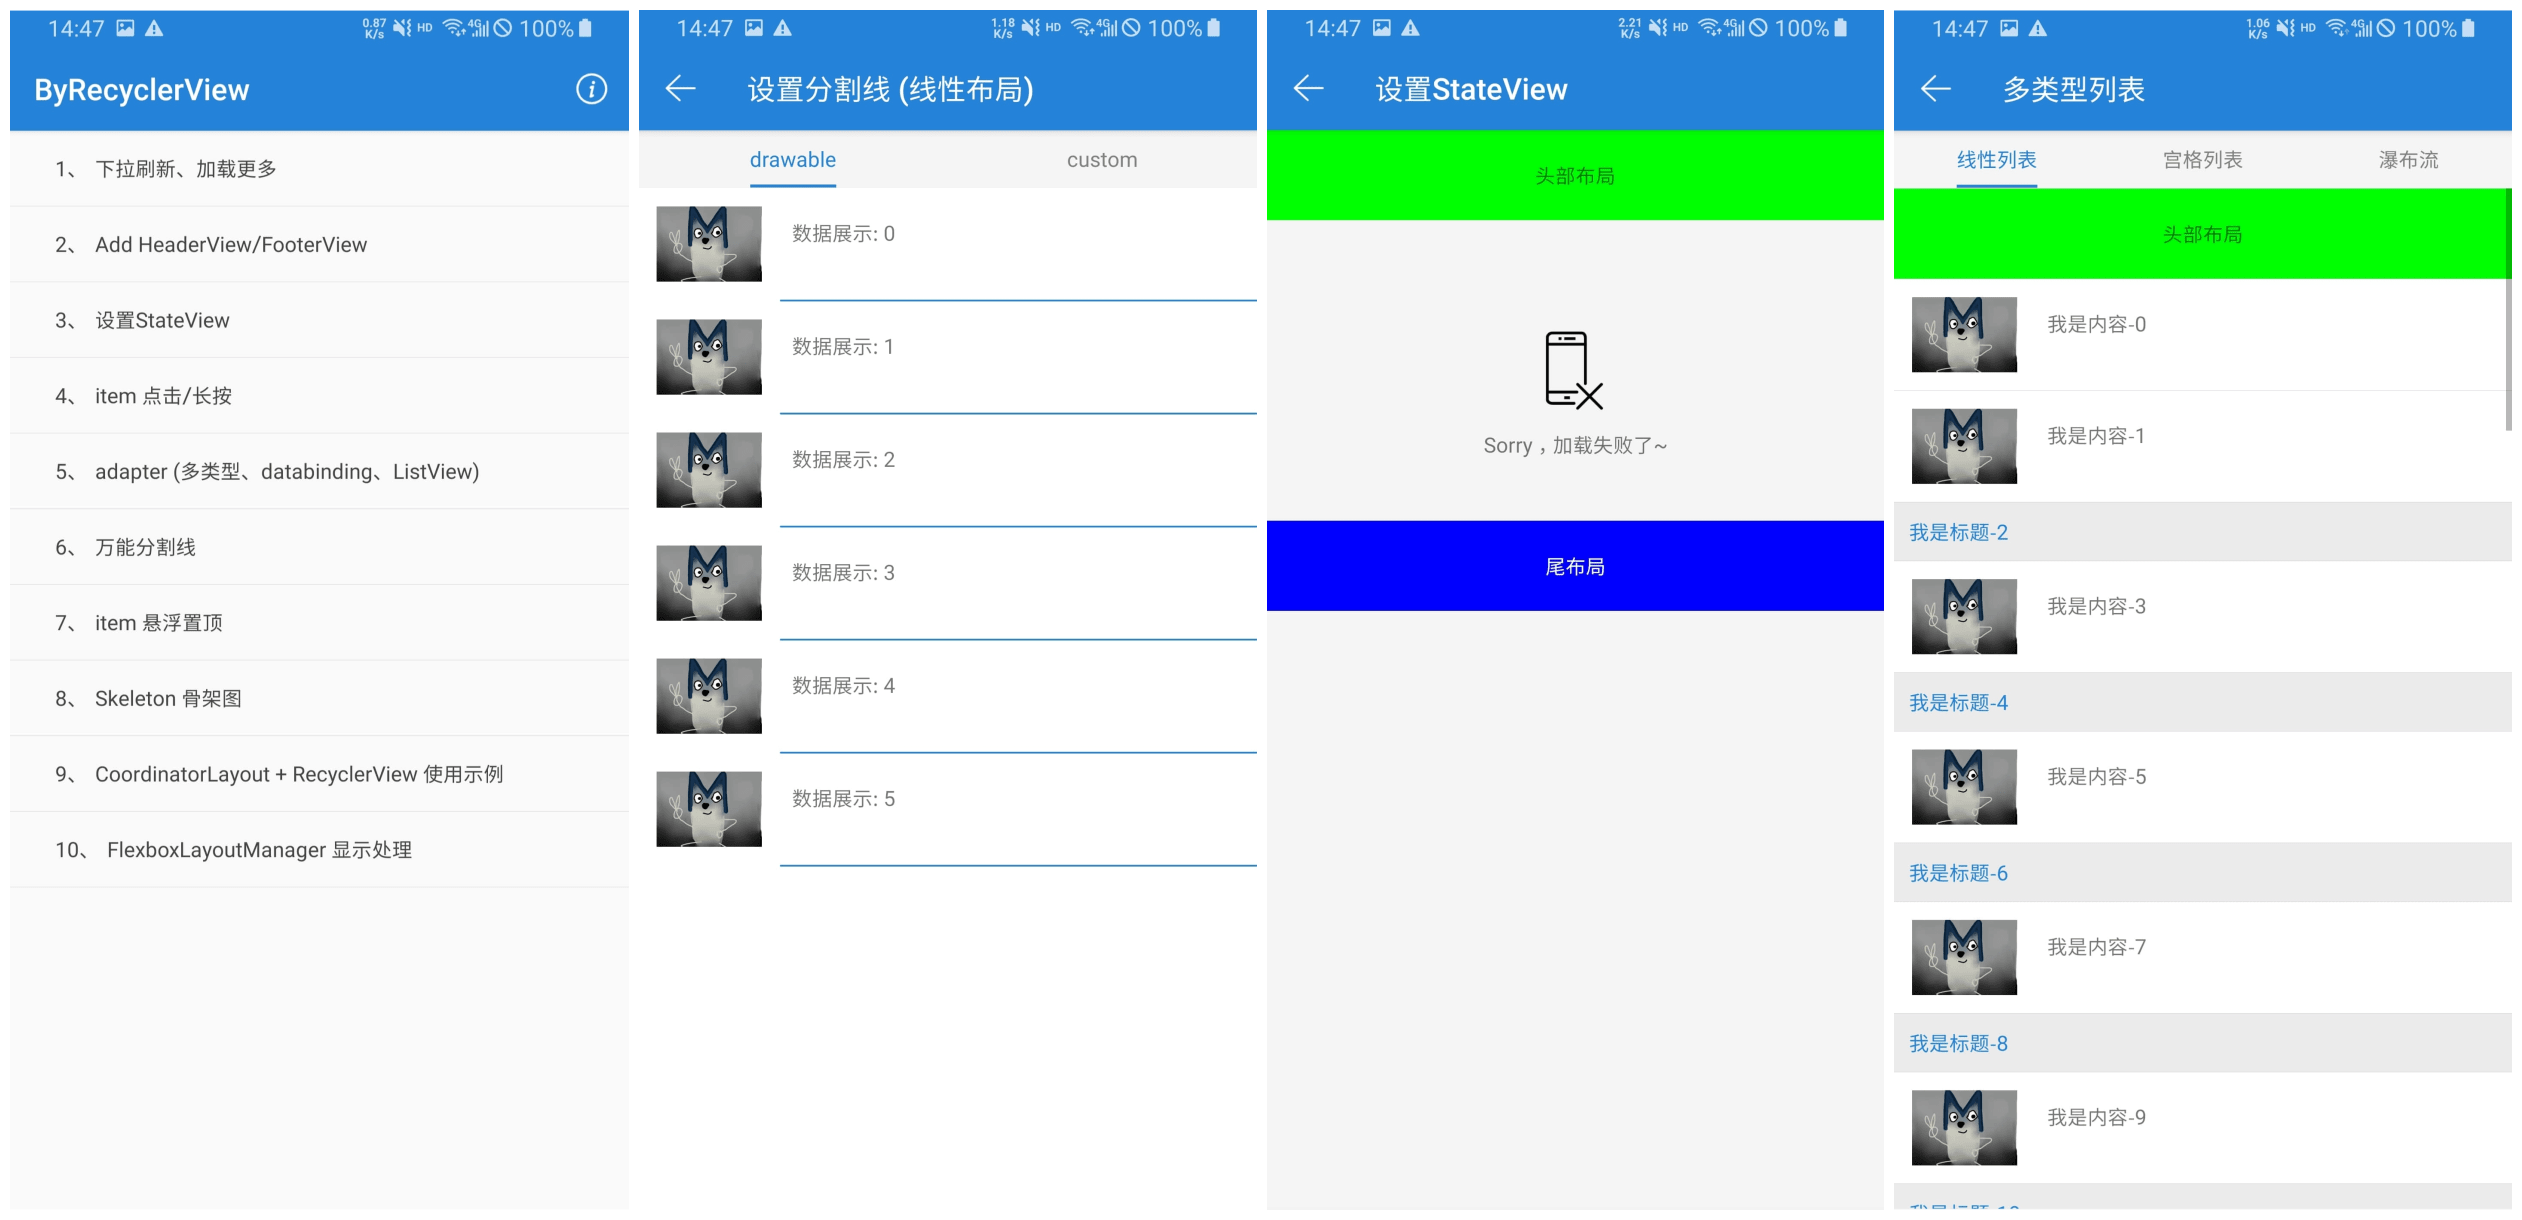
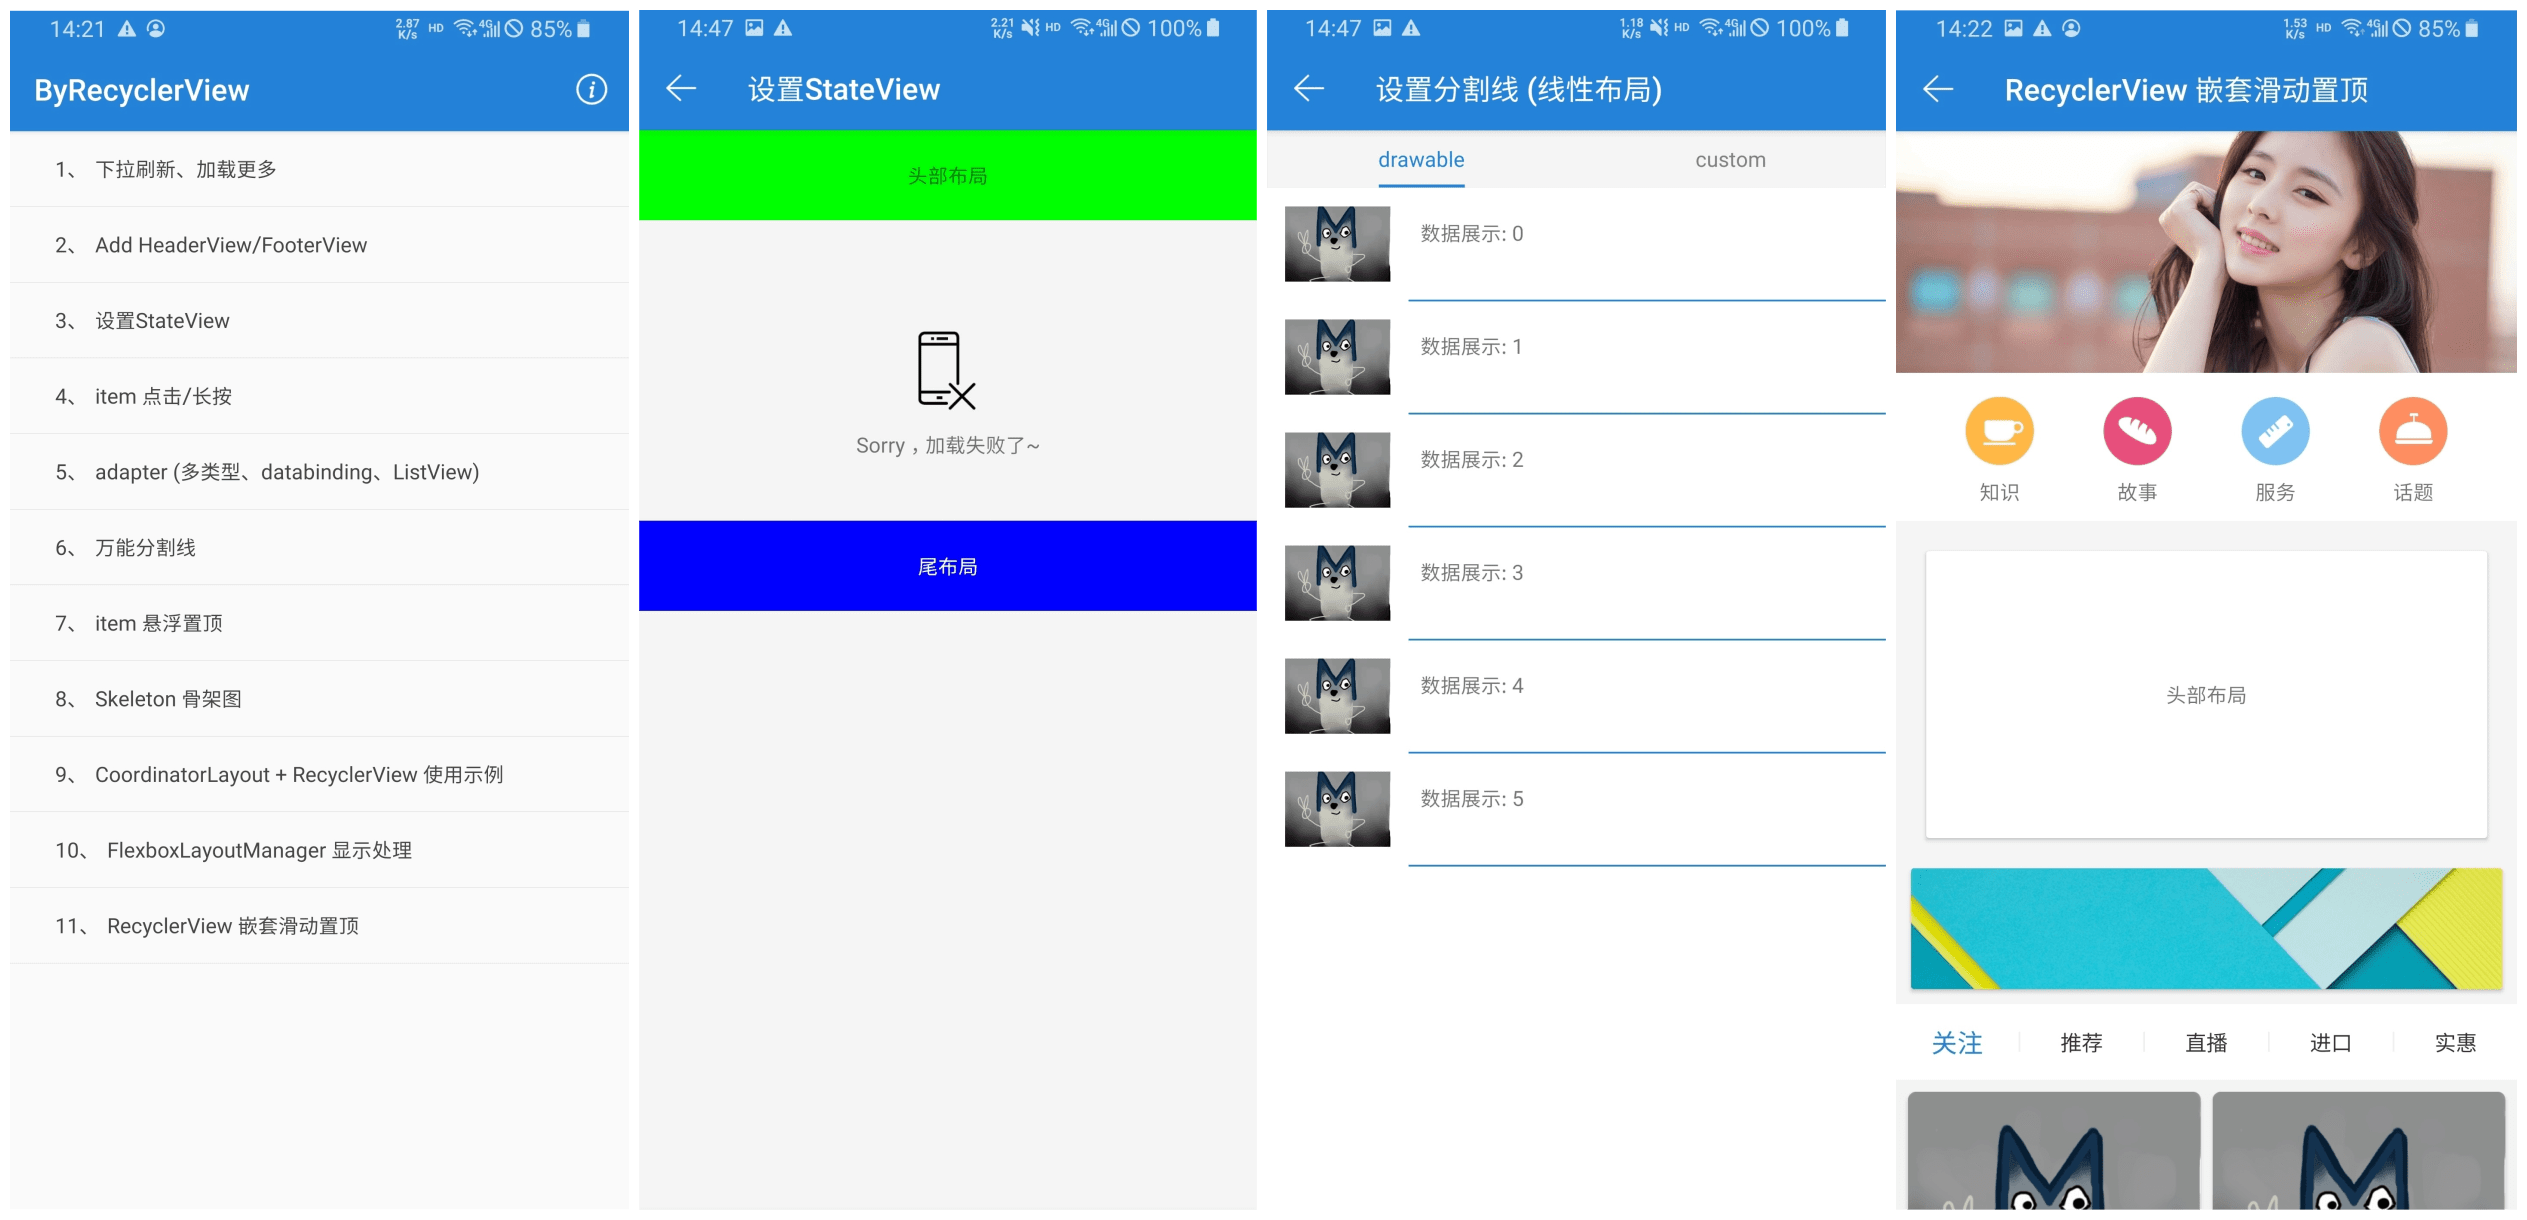
update README.md

diff --git a/README.md b/README.md
@@ -7,19 +7,17 @@
 ByRecyclerView 提供了下拉刷新、加载更多、 添加HeaderView/FooterView、setStateView、item点击/长按、万能分割线、粘性header、极简Adapter(databinding)等功能。
 
 ## 功能特性
- - 1.支持 下拉刷新 / 加载更多
- - 2.可随意切换 自带下拉刷新布局 / SwipeRefreshLayout
+ - 1.支持 下拉刷新 / 加载更多 / SwipeRefreshLayout
+ - 2.可自定义 下拉刷新布局 / 加载更多布局
  - 3.加载更多机制：**不足一屏上拉加载，超过后触底加载**
- - 4.可设置 自定义 下拉刷新布局 / 加载更多布局
- - 5.可Add HeaderView、FooterView
- - 6.可设置 StateView状态布局
- - 7.可添加 item及子view的点击/长按事件(防止重复点击)
- - 8.优化过的BaseAdapter (RV/LV)，减少大量代码
- - 9.Adapter结合DataBinding使用 (RV/LV)
- - 10.可添加 万能分隔线（线性/宫格/瀑布流）
- - 11.可配置 Skeleton骨架图
+ - 4.可Add HeaderView、FooterView、StateView
+ - 5.可添加 item及子view的点击/长按事件(防止重复点击)
+ - 6.优化过的BaseAdapter (RV/LV)，减少大量代码
+ - 7.Adapter结合DataBinding使用 (RV/LV)
+ - 8.可添加 万能分隔线（线性/宫格/瀑布流）
+ - 9.可配置 Skeleton骨架图
 
-> 最新：处理在ViewPager2中使用的问题
+> 最新：新增RecyclerView嵌套滑动置顶示例
 
 ## Document
  -  👉 [**详细使用见Wiki！！！**](https://github.com/youlookwhat/ByRecyclerView/wiki)
@@ -38,9 +36,6 @@ ByRecyclerView 提供了下拉刷新、加载更多、 添加HeaderView/FooterVi
 
 <img width="250" height=“250” src="https://github.com/youlookwhat/ByRecyclerView/blob/master/art/png_dowload.png?raw=true"></img>
 
-<!--|[AndroidX版本(Apk-Demo)](http://d.6short.com/byrecyclerview)|[Support版本(CloudReader)](https://www.coolapk.com/apk/127875)|
-|:--:|:--:|
-|<img width="200" height=“200” src="https://github.com/youlookwhat/ByRecyclerView/blob/master/art/png_dowload.png?raw=true"></img>|<img width="200" height=“200” src="https://raw.githubusercontent.com/youlookwhat/CloudReader/master/file/download_200.png"></img>|-->
 
 ## 如何使用  👉 [**Wiki文档**](https://github.com/youlookwhat/ByRecyclerView/wiki)
 
@@ -258,16 +253,13 @@ skeletonScreen.hide();
 |EmptyView|可设置|可设置|不能设置|
 |点击/长按事件|有|有| 无 |
 
-ByRecyclerView 是XRecyclerView的拓展，可完全替换XRecyclerView，对于BRVAH它的特点在于：
+ByRecyclerView 是XRecyclerView的拓展，可完全替换XRecyclerView，对于BRVAH它的区别在于：
 
  - headerView使用的是多type的形式，即一个header就是一个position
  - 不足一屏上拉加载，超过后触底加载
  - 自带下拉加载布局，也可使用三方刷新框架，比如SwipeRefreshLayout
  - 万能分割线(LinearLayout / GridLayout / StaggeredGridLayout)
- - 可设置悬浮置顶item StickyView
  - 可设置Skeleton 骨架图
-
-缺点是还没有BRVAH里的部分功能，比如分组adapter、DiffUtils、item扩展动画...后期会逐步完善。
 
 ## 混淆
 此资源库没有使用到任何序列化、反序列化、JNI、反射，无需进行额外的混淆操作，并且已经测试通过，在实际项目中使用，如果你在项目混淆之后出现问题，请及时联系我。
@@ -278,6 +270,7 @@ ByRecyclerView 是XRecyclerView的拓展，可完全替换XRecyclerView，对于
 ## Thanks
  - [XRecyclerView](https://github.com/XRecyclerView/XRecyclerView)
  - [BaseRecyclerViewAdapterHelper](https://github.com/CymChad/BaseRecyclerViewAdapterHelper)
+ - [PersistentRecyclerView](https://github.com/xmuSistone/PersistentRecyclerView)
 
 ## About me
  - **QQ**： 770413277
